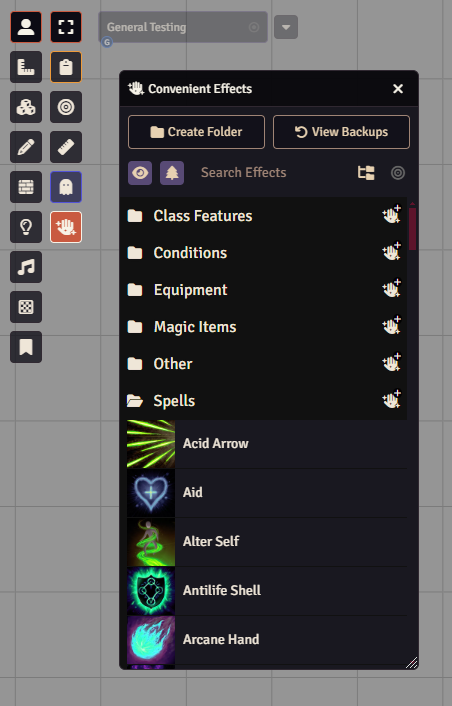
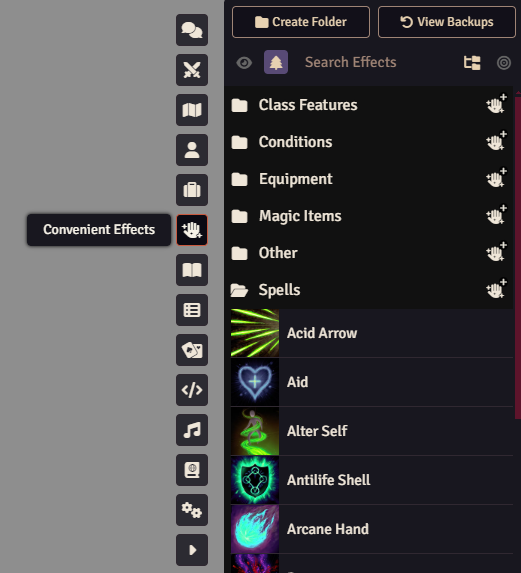
Update quick start and app image for sidebar

diff --git a/docs/free-modules/convenient-effects/index.md b/docs/free-modules/convenient-effects/index.md
@@ -49,7 +49,7 @@ interactions.
 
 ## Quick Start
 
-1. Open the application with the button on the token controls
+1. Open the application with the button on the sidebar directory
 1. Select a token and click an effect to toggle it on or off
 
 ![Convenient Effects App](./img/convenient-effects-app.png)
